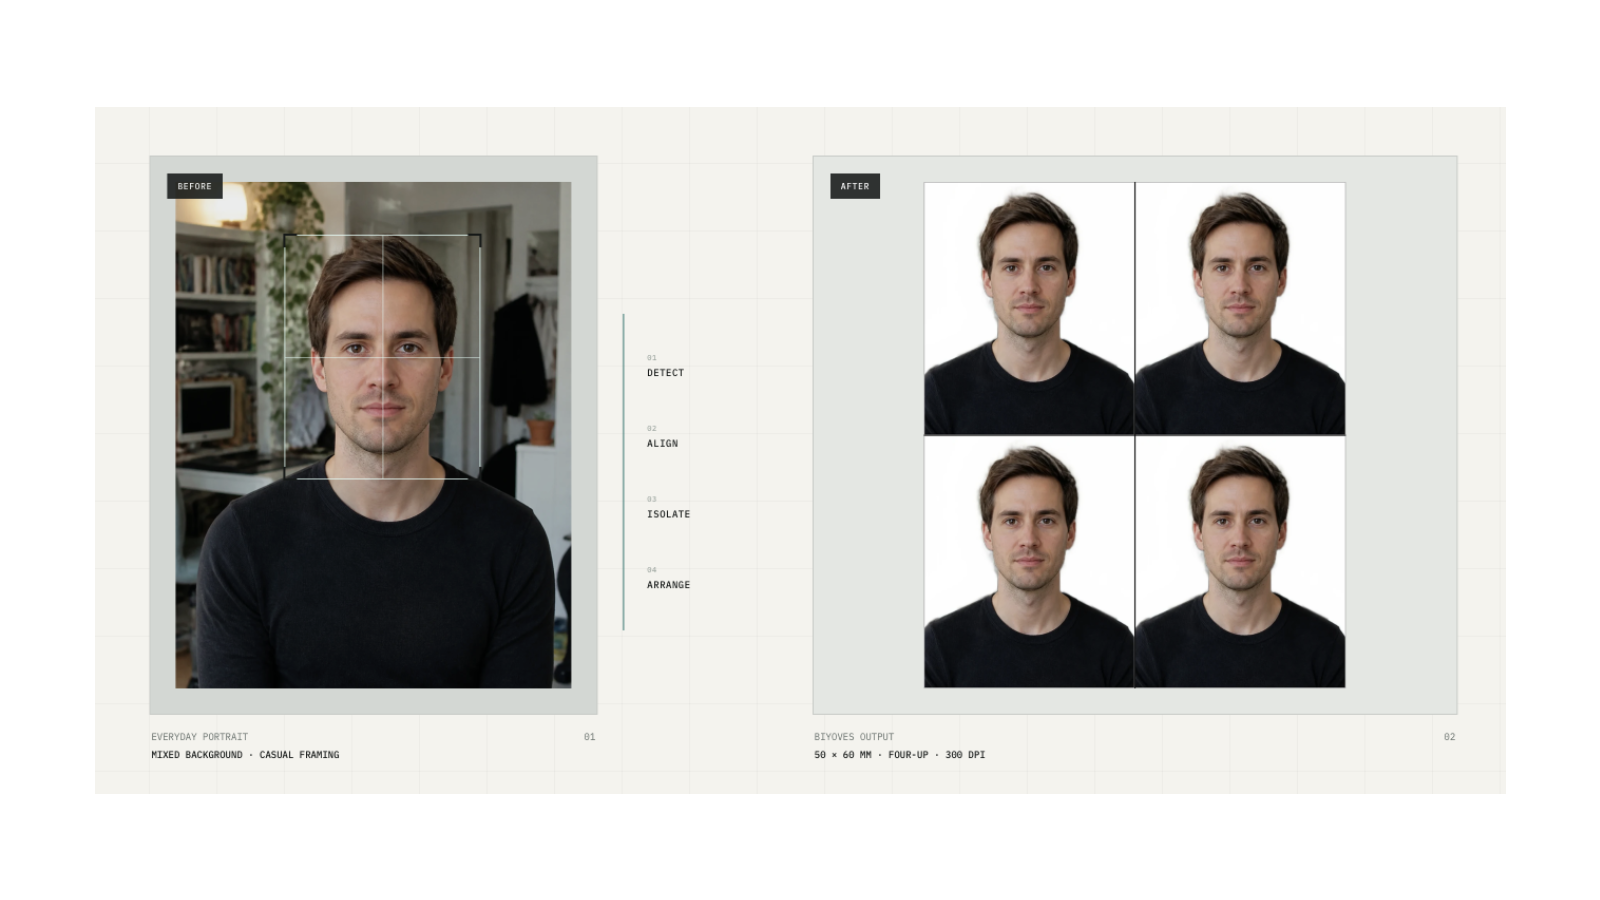
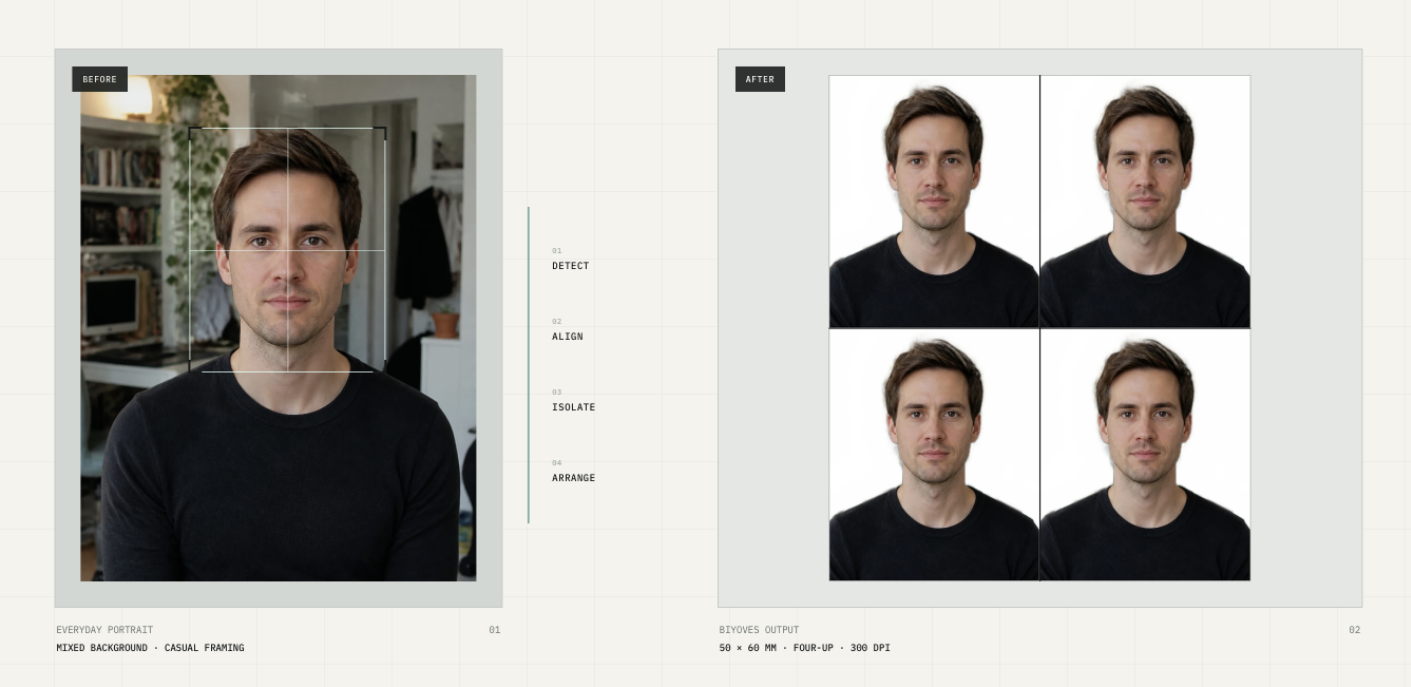
Trim project image canvases and unlink university

diff --git a/index.html b/index.html
@@ -90,7 +90,7 @@ nav_key: home
           {% endif %}
           <article class="software-record" id="{{ project.id }}">
             <div class="software-visual">
-              <img src="{{ project.image | relative_url }}" alt="{{ project.image_alt | escape }}" width="1600" height="900" loading="lazy">
+              <img src="{{ project.image | relative_url }}" alt="{{ project.image_alt | escape }}" width="{{ project.image_width | default: 1600 }}" height="{{ project.image_height | default: 900 }}" loading="lazy">
             </div>
             <div class="software-record-body">
               <h3><a href="{{ project_url }}" target="_blank" rel="noopener noreferrer">{{ project.name }}</a></h3>
@@ -116,7 +116,7 @@ nav_key: home
         <li class="editorial-row">
           <div class="entry-body">
             <h3>{{ site.data.profile.degree }}</h3>
-            <p><a href="https://www.istanbul.edu.tr/" target="_blank" rel="noopener noreferrer">{{ site.data.profile.institution }}</a></p>
+            <p>{{ site.data.profile.institution }}</p>
           </div>
           <div class="entry-meta">{{ site.data.profile.education_period }}</div>
         </li>
